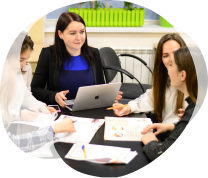
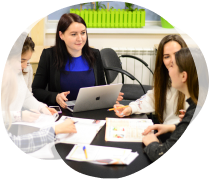
hero

diff --git a/src/sass/layout/_hero.scss b/src/sass/layout/_hero.scss
@@ -152,6 +152,9 @@
   .hero__wrapper--discription {
     margin-top: 40px;
     margin-bottom: 40px;
+    // width: 280px;
+    margin-right: auto;
+    margin-left: auto;
   }
 
   .hero__wrapper--discription--paragraph {
@@ -182,13 +185,13 @@
   }
 
   .hero__foto {
-    margin: 40px auto 46px;
+    margin: 0 auto 46px;
   }
 
-  .hero__wrapper {
-    position: relative;
-    padding-bottom: 56px;
-  }
+  // .hero__wrapper {
+  //   margin-right: auto;
+  //   margin-left: auto;
+  // }
 
   .beackraund-hero {
     top: -31px;
